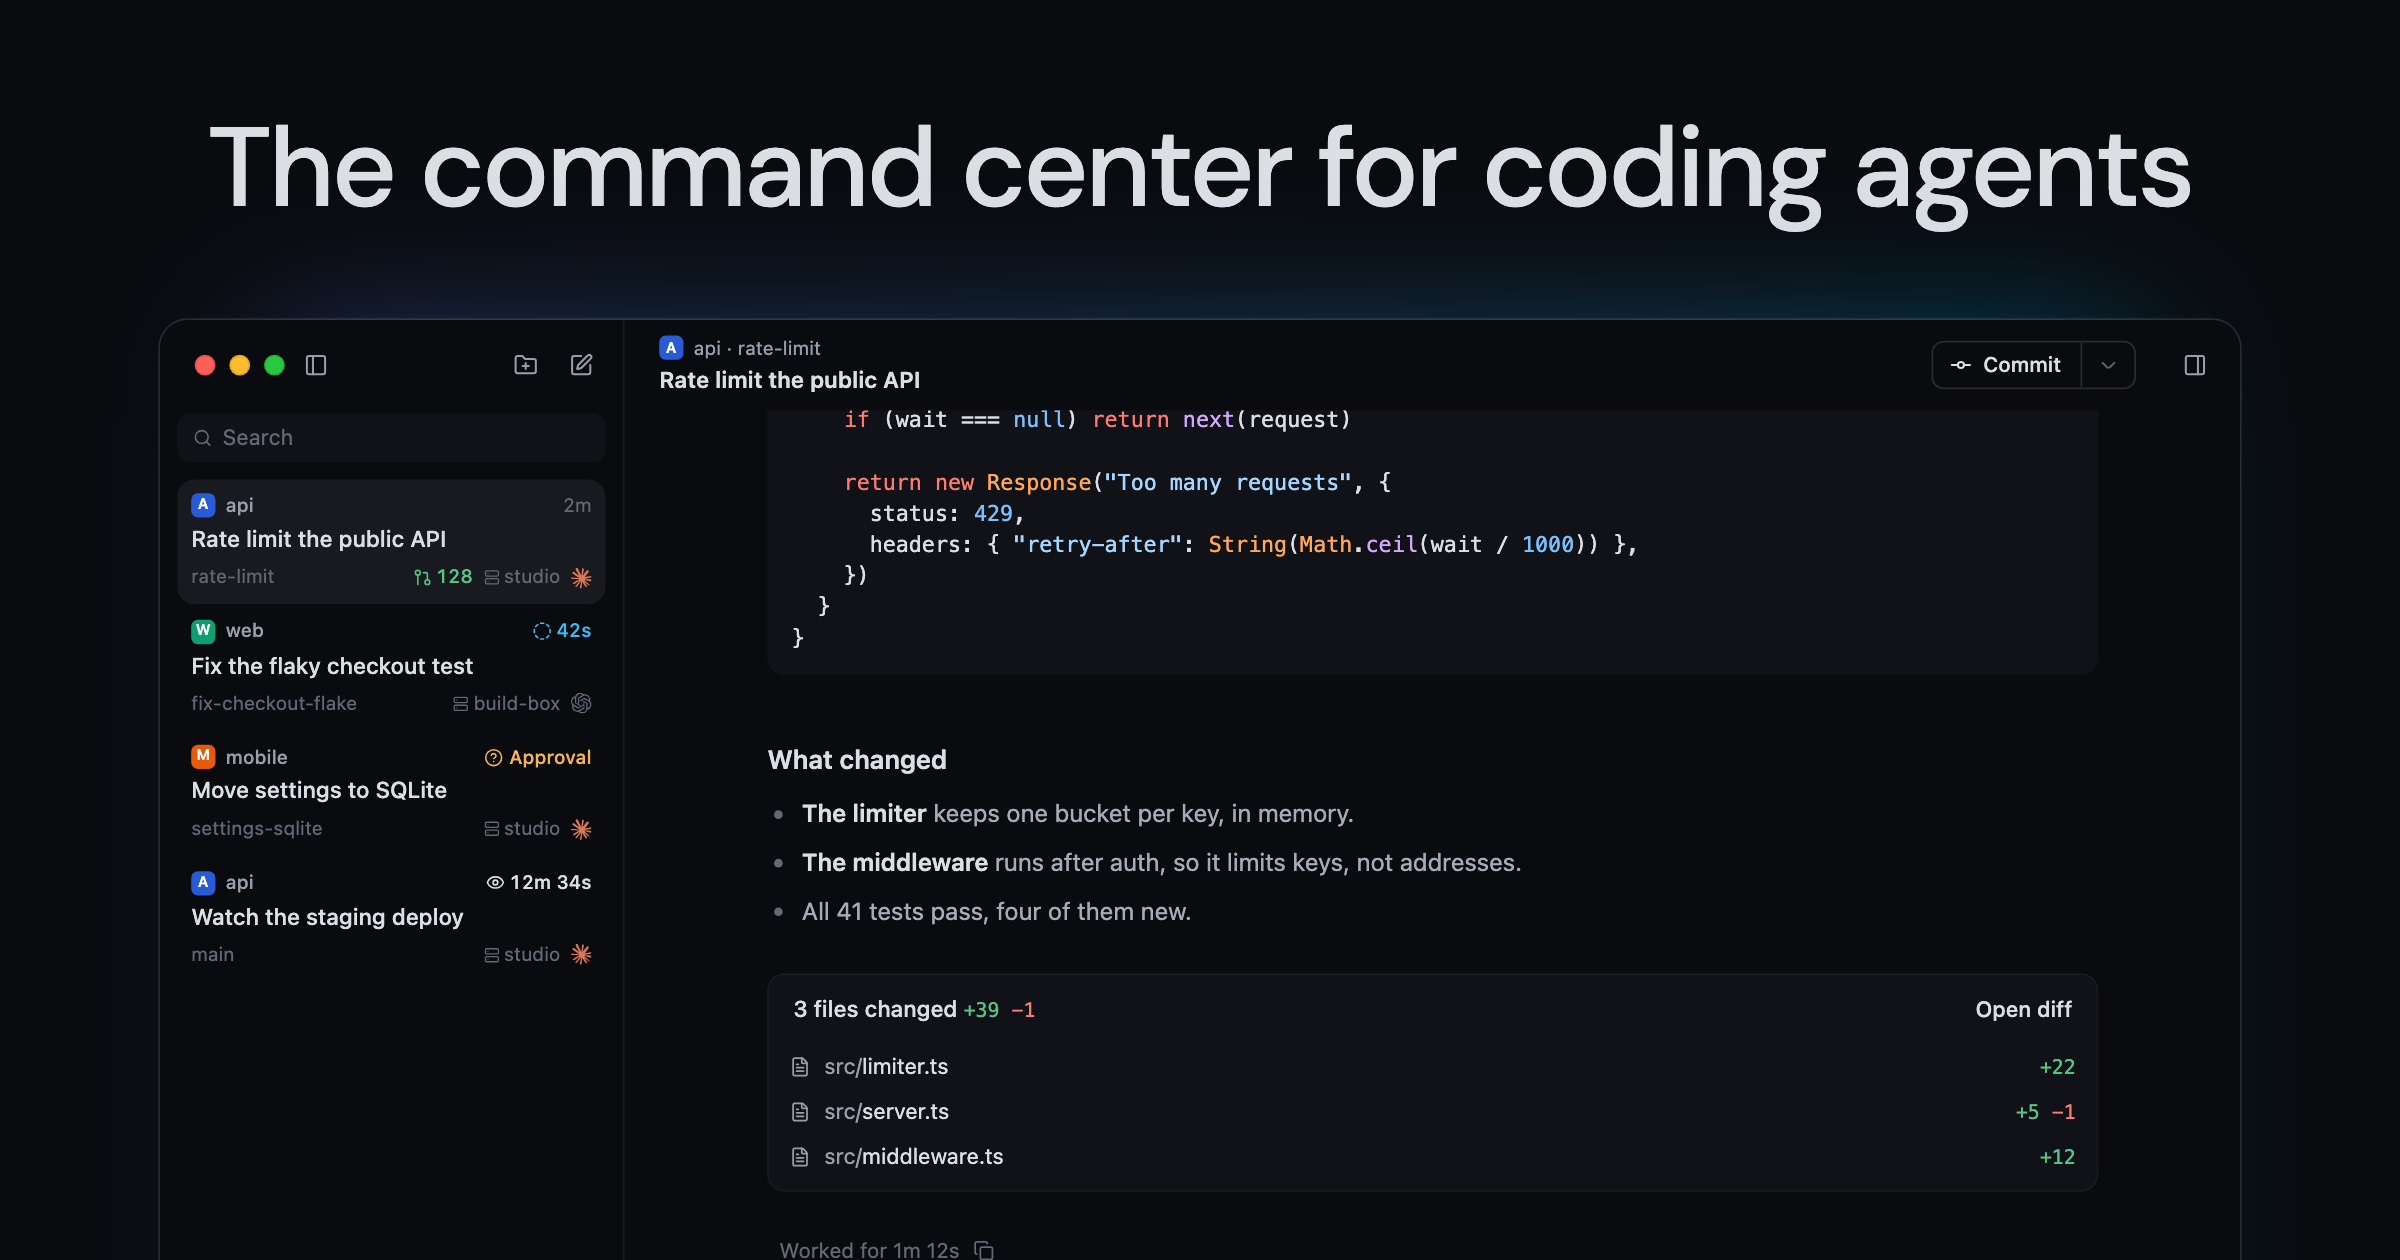
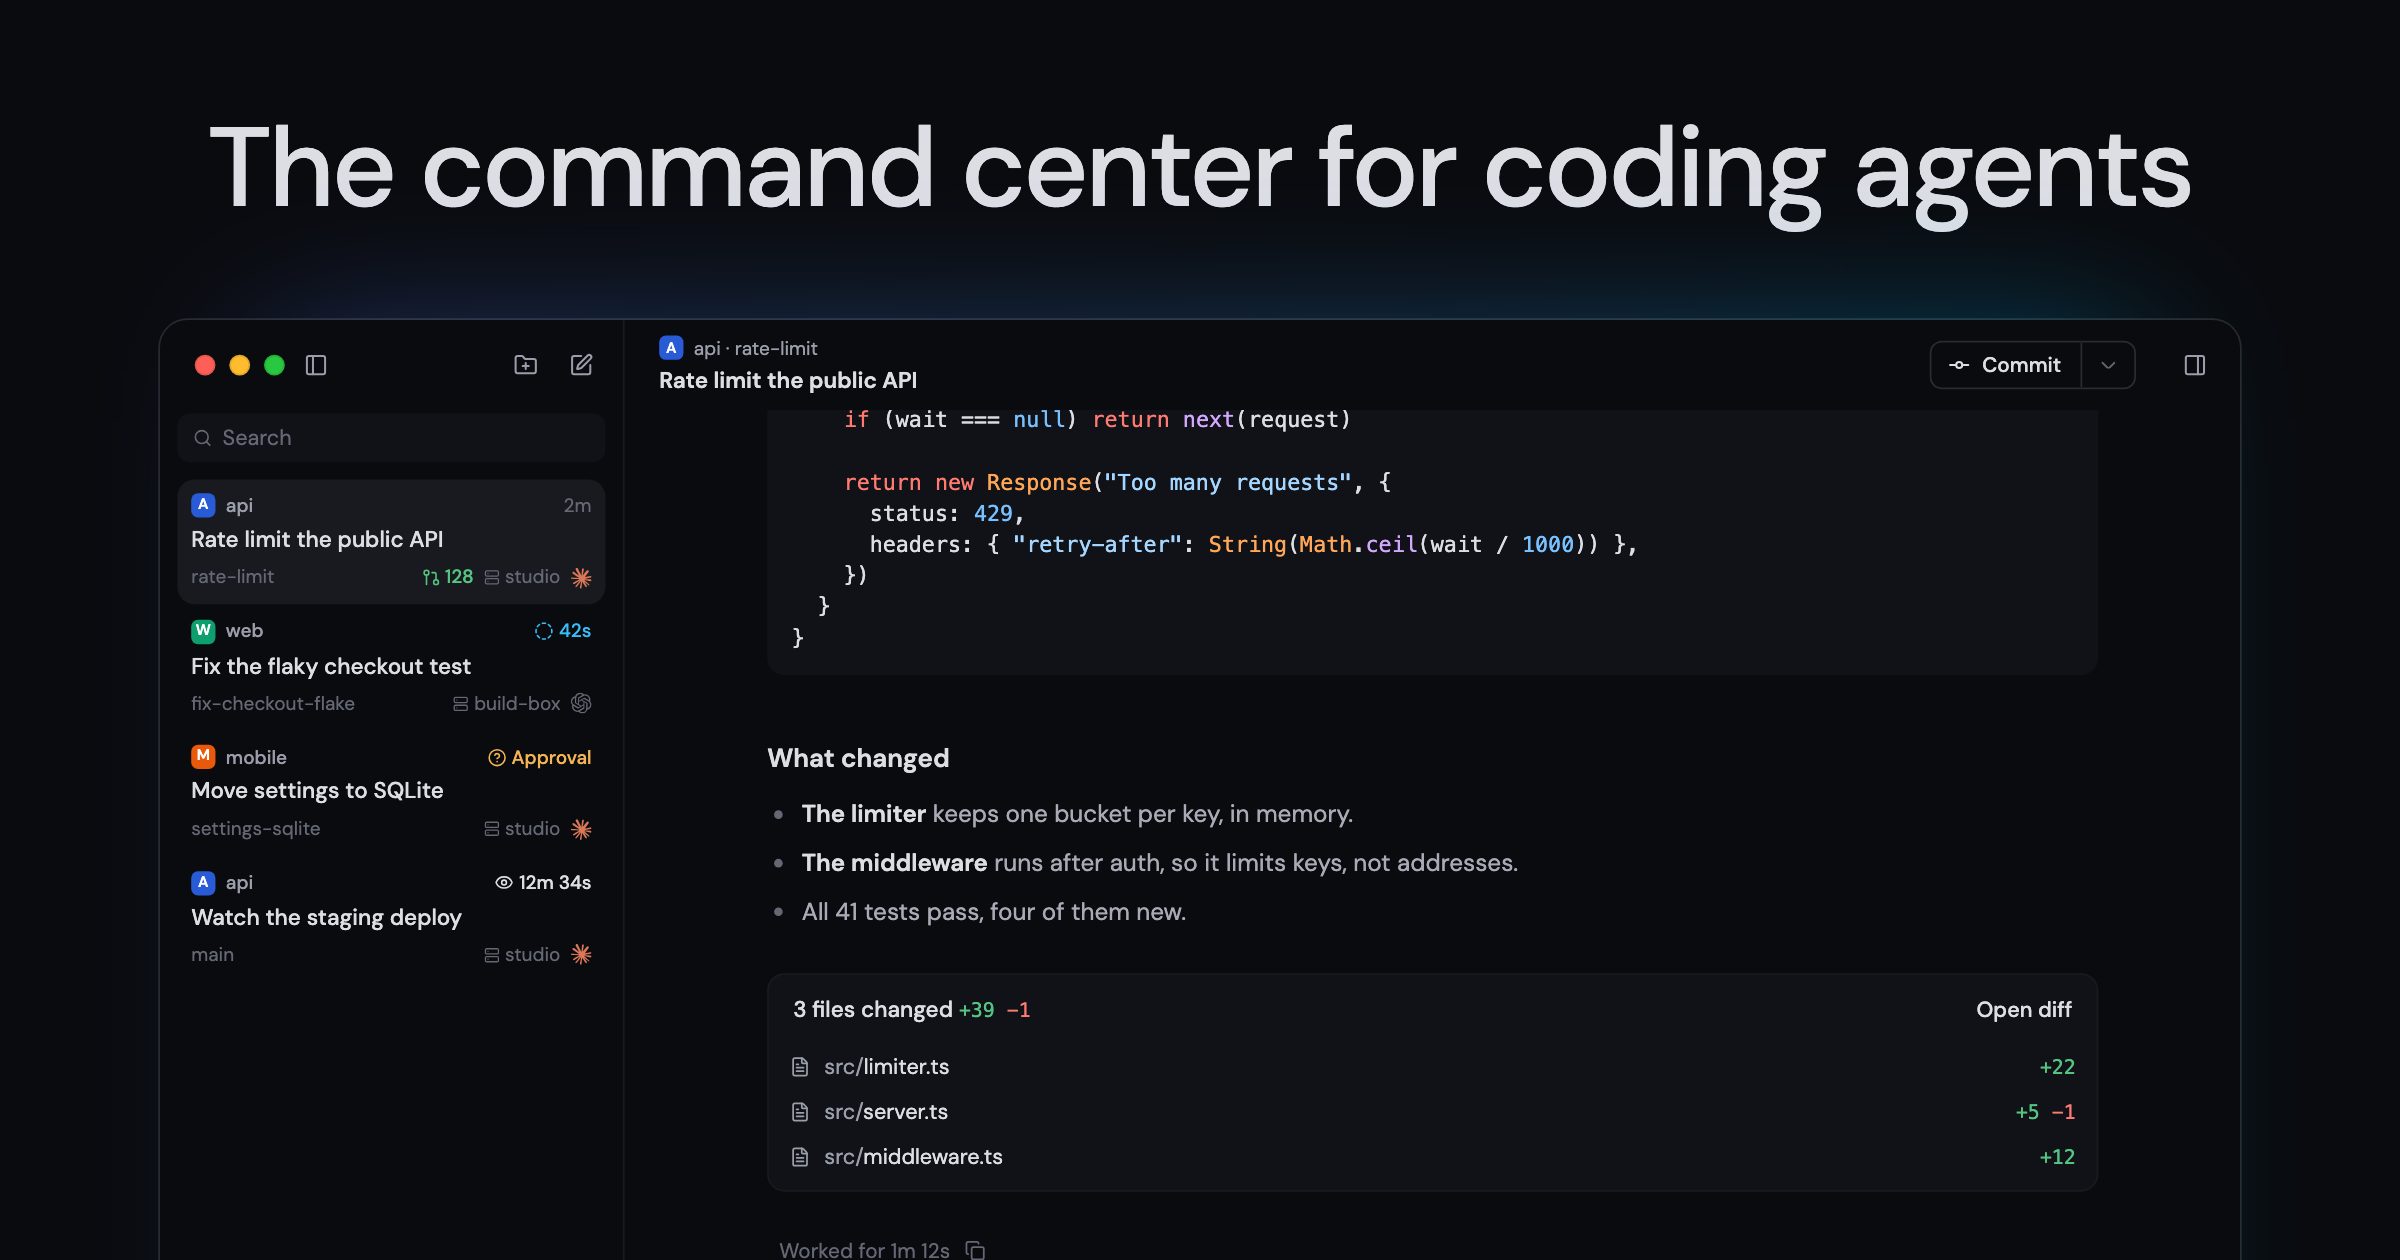
marketing: Set the demo in DM Sans and pin its composer without measuring
The demo used the system font, so its text didn't match the rest of the page. It now inherits DM Sans, and the unused --font-system token is removed from the theme.

Before, the composer was placed absolutely over the transcript. Its height was measured with a ResizeObserver so the transcript could be padded and masked to fit, and that height had to start from a hardcoded guess to avoid a layout shift. The guess kept drifting away from the real height. Now the composer sits sticky at the bottom of the transcript's scroll content, so the transcript leaves room for it on its own. A gradient behind the composer replaces the mask, so nothing needs to be measured and the layout doesn't shift.

The preview images are regenerated to match.

diff --git a/apps/marketing/src/components/demo/demo.tsx b/apps/marketing/src/components/demo/demo.tsx
@@ -8,13 +8,7 @@ import {
   SquarePenIcon,
   type LucideIcon,
 } from "lucide-react"
-import {
-  useEffect,
-  useRef,
-  useState,
-  type CSSProperties,
-  type RefObject,
-} from "react"
+import { useEffect, useState } from "react"
 import { Composer } from "./composer"
 import { DiffPanel } from "./diff-panel"
 import { Glow } from "./glow"
@@ -26,9 +20,6 @@ import { cn } from "@/lib/utils"
 
 type Panel = "closed" | "open" | "maximized"
 
-/** The composer's height with no strip above it, so the page paints right before it is measured. */
-const IDLE_COMPOSER_HEIGHT = 193
-
 /** The Mac app's window, with made-up threads that can be opened, answered and written in. */
 export function Demo() {
   const [threads, setThreads] = useState(startingThreads)
@@ -36,8 +27,6 @@ export function Demo() {
   const [panel, setPanel] = useState<Panel>("closed")
   const [sidebarShown, setSidebarShown] = useState(true)
   const seconds = useSeconds()
-  const composer = useRef<HTMLDivElement>(null)
-  const composerRoom = useHeight(composer, IDLE_COMPOSER_HEIGHT)
 
   const thread = threads.find((one) => one.id === selectedId) ?? threads[0]
   const elapsed = (since: number) => formatElapsed(since + seconds)
@@ -80,7 +69,7 @@ export function Demo() {
     <div className="@container relative isolate w-full">
       <Glow />
       <div className="h-[calc(760px*var(--demo-scale))] [--demo-scale:var(--demo-fit,min(1,tan(atan2(100cqw,1200px))))]">
-        <div className="relative flex h-[760px] w-[1200px] origin-top-left scale-(--demo-scale) overflow-hidden rounded-[16px] bg-background font-system text-[13px] text-foreground ring-1 ring-black/10 select-none dark:ring-white/12">
+        <div className="relative flex h-[760px] w-[1200px] origin-top-left scale-(--demo-scale) overflow-hidden rounded-[16px] bg-background text-[13px] text-foreground ring-1 ring-black/10 select-none dark:ring-white/12">
           <div className="absolute top-5 left-5 z-20">
             <TrafficLights />
           </div>
@@ -150,14 +139,8 @@ export function Demo() {
               {thread.diff && <GitButton />}
             </div>
             <div className="relative min-h-0 flex-1">
-              <div
-                className="absolute inset-0 flex flex-col-reverse overflow-y-auto"
-                style={fadeUnder(composerRoom)}
-              >
-                <div
-                  className="mb-auto"
-                  style={{ paddingBottom: composerRoom }}
-                >
+              <div className="absolute inset-0 flex flex-col-reverse overflow-y-auto">
+                <div className="flex min-h-full shrink-0 flex-col">
                   <Transcript
                     key={thread.id}
                     thread={thread}
@@ -168,24 +151,22 @@ export function Demo() {
                     }
                     onOpenDiff={() => setPanel("open")}
                   />
+                  <div className="pointer-events-none sticky bottom-0 z-10 mt-auto px-6 pt-12 pb-4 *:pointer-events-auto">
+                    <TranscriptFade />
+                    <Composer
+                      key={thread.id}
+                      thread={thread}
+                      elapsed={elapsed}
+                      onSend={send}
+                      onAnswer={answer}
+                      onStop={() =>
+                        update(thread.id, () => ({
+                          status: { kind: "idle", ago: "now" },
+                        }))
+                      }
+                    />
+                  </div>
                 </div>
-              </div>
-              <div
-                ref={composer}
-                className="pointer-events-none absolute inset-x-0 bottom-0 px-6 pt-12 pb-4 *:pointer-events-auto"
-              >
-                <Composer
-                  key={thread.id}
-                  thread={thread}
-                  elapsed={elapsed}
-                  onSend={send}
-                  onAnswer={answer}
-                  onStop={() =>
-                    update(thread.id, () => ({
-                      status: { kind: "idle", ago: "now" },
-                    }))
-                  }
-                />
               </div>
             </div>
           </main>
@@ -256,23 +237,11 @@ function GitButton() {
   )
 }
 
-/** The transcript fades out from the room above the composer down to the composer's middle, as in the Mac app. */
-function fadeUnder(room: number): CSSProperties {
-  const middle = (room - 48 + 16) / 2
-  const mask = `linear-gradient(to bottom, #000 calc(100% - ${room}px), transparent calc(100% - ${middle}px))`
-  return { maskImage: mask }
-}
-
-function useHeight(ref: RefObject<HTMLElement | null>, initial: number) {
-  const [height, setHeight] = useState(initial)
-  useEffect(() => {
-    const element = ref.current
-    if (!element) return
-    const observer = new ResizeObserver(() => setHeight(element.offsetHeight))
-    observer.observe(element)
-    return () => observer.disconnect()
-  }, [ref])
-  return height
+/** Fades the transcript out from the room above the composer down to the composer's middle, as in the Mac app. */
+function TranscriptFade() {
+  return (
+    <div className="pointer-events-none! absolute inset-0 -z-10 bg-[linear-gradient(to_bottom,transparent,var(--background)_calc(50%+16px))]" />
+  )
 }
 
 /** Seconds since the page opened, so the timers of working threads count up. */

diff --git a/packages/theme/theme.css b/packages/theme/theme.css
@@ -66,7 +66,6 @@
   --color-syntax-constant: var(--syntax-constant);
   --color-syntax-function: var(--syntax-function);
   --color-syntax-type: var(--syntax-type);
-  --font-system: system-ui, -apple-system, BlinkMacSystemFont, "Segoe UI", sans-serif;
   --radius-sm: calc(var(--radius) * 0.6);
   --radius-md: calc(var(--radius) * 0.8);
   --radius-lg: var(--radius);
